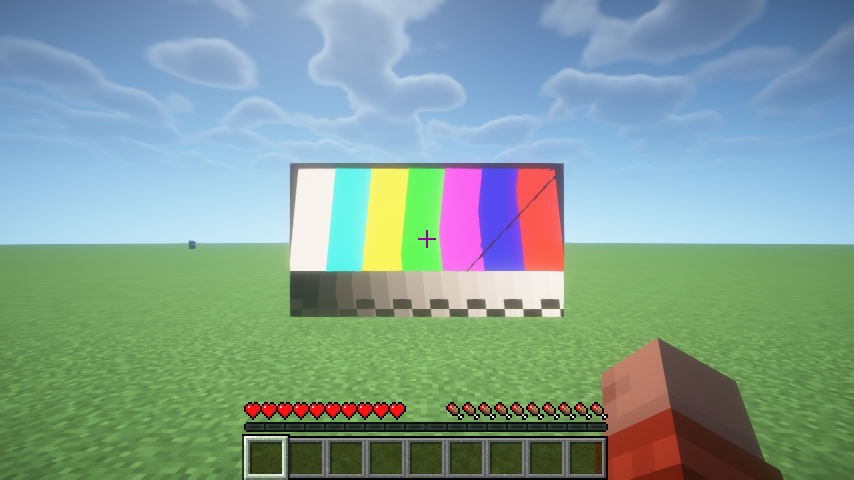
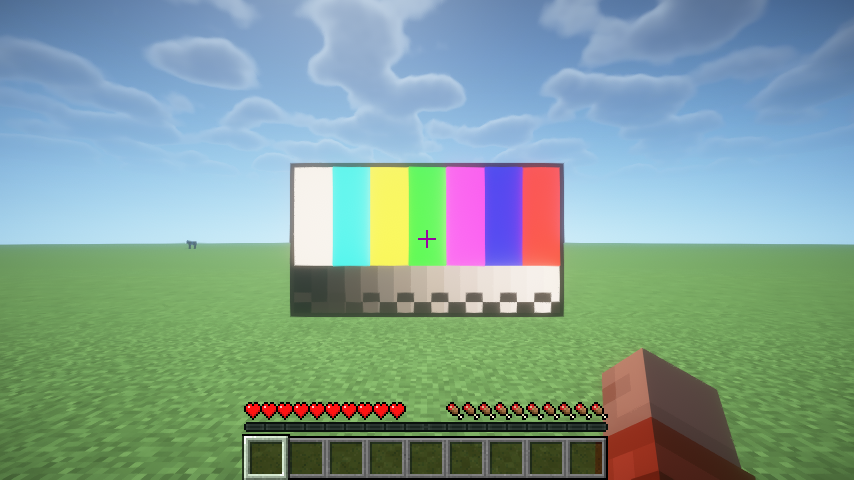
Remove test-pattern scanline and move projector behind viewer

Changed region(s): [[0.3349, 0.3438, 0.6698, 0.6875], [0.7307, 0.6875, 0.9133, 1.0]]

diff --git a/src/client/java/com/example/firstmod/client/render/CinemaVisualSpike.java b/src/client/java/com/example/firstmod/client/render/CinemaVisualSpike.java
@@ -85,6 +85,7 @@ public final class CinemaVisualSpike {
 		Vec3 center = eye.add(forward.scale(6.0));
 		double screenWidth = 4.8;
 		double screenHeight = 2.7;
+		double projectorBack = 4.0;
 
 		origin = center.subtract(rightDir.scale(screenWidth / 2.0)).subtract(0.0, screenHeight / 2.0, 0.0);
 		right = rightDir.scale(screenWidth);
@@ -94,12 +95,12 @@ public final class CinemaVisualSpike {
 		// Projector lens: a little behind/above the player, aimed at the
 		// screen center. The UVs come from a real view/projection matrix, so
 		// an off-axis lens produces a keystoned image instead of a flat quad.
-		lens = eye.add(forward.scale(1.2)).add(0.0, 1.0, 0.0);
+		lens = eye.subtract(forward.scale(projectorBack));
 		projectorView = new Matrix4f().lookAt(
 			new Vector3f((float) lens.x, (float) lens.y, (float) lens.z),
 			new Vector3f((float) center.x, (float) center.y, (float) center.z),
 			new Vector3f(0.0f, 1.0f, 0.0f));
-		float fovY = (float) (2.0 * Math.atan((screenHeight / 2.0) / (6.0 - 1.2)));
+		float fovY = (float) (2.0 * Math.atan((screenHeight / 2.0) / (6.0 + projectorBack)));
 		projectorProjection = new Matrix4f().perspective(fovY, (float) screenWidth / (float) screenHeight,
 			0.05f, 100.0f);
 
@@ -215,13 +216,7 @@ public final class CinemaVisualSpike {
 			int bar = Math.min(6, (x - 4) * 7 / (WIDTH - 8));
 			int[] colors = {0xFFFFFFFF, 0xFFFFFF00, 0xFF00FFFF, 0xFF00FF00,
 				0xFFFF00FF, 0xFFFF0000, 0xFF0000FF};
-			int color = colors[bar];
-			// Moving diagonal marker makes dropped frames / stale textures visible.
-			int marker = (frame * 3) % (WIDTH + HEIGHT);
-			if (Math.abs((x + y) - marker) < 3) {
-				color = 0xFF000000;
-			}
-			return color;
+			return colors[bar];
 		}
 		int step = Math.max(0, Math.min(15, (x - 4) * 16 / (WIDTH - 8)));
 		int gray = step * 17;

diff --git a/spike/P05-DESIGN.md b/spike/P05-DESIGN.md
@@ -62,9 +62,10 @@ view/projection 矩阵计算。可见光束已按决定删除。
 
 关键结果：
 
-- 屏幕纹理、颜色条、灰度梯、运动标记均正确显示。
-- 投影仪偏轴（镜头比屏幕中心高 1 m）时 UV 仍能覆盖屏幕；FOV 按镜头到屏幕
-  的实际距离计算后，UV 约在 0–1 之间。
+- 屏幕纹理、颜色条、灰度梯均正确显示。
+- 投影仪镜头位于**玩家后方 4 格、与眼睛同高**（不是屏幕上方）；FOV 按镜头到
+  屏幕的实际距离（10 格）计算后，UV 约在 0–1 之间。
+- 正式方块可以把镜头装在后墙/天花板，但必须用镜头位移/梯形校正把画面拉回屏幕。
 - 遮挡采样 32×18 = **576 条射线**，单次约 **0.5–1.1 ms**（每 20 次纹理更新一次）。
 - 截图路径为 `run/screenshots/`，自动截图在 `-Dfirstmod.spike.visual=true` 时触发。
 
@@ -216,6 +217,7 @@ C/D 需要投影仪深度图/自定义 shader/光影包适配，和 Sodium/Iris 
 ### 3.3 推荐的第一版投影几何
 
 1. 投影仪方块有镜头位置、朝向、投掷比、变焦、焦距、梯形校正参数。
+   **镜头在观众后方/后墙，而不是屏幕正上方**；测试原型放在玩家后方 4 格、同高。
 2. 屏幕方块组成一个矩形，记录原点、宽高、朝向、宽高比。
 3. 投影仪和屏幕配对后，计算屏幕四角在镜头空间的坐标。
 4. 屏幕每个 block 的 UV 由“镜头射线与屏幕平面交点”决定，而不是简单铺满：

diff --git a/spike/README.md b/spike/README.md
@@ -219,8 +219,8 @@ Sodium/Iris/BSL 只作为测试环境放入 `run/mods`、`run/shaderpacks`，不
 
 ![P0.5 screen](screenshots/p05-screen.png)
 
-- `DynamicTexture` 测试图每 3 帧上传，颜色条/灰度梯/运动标记正确
-- 投影仪 UV 由真实 view/projection 矩阵计算，屏幕覆盖正确
+- `DynamicTexture` 测试图每 3 帧上传，颜色条/灰度梯正确
+- 投影仪 UV 由真实 view/projection 矩阵计算，镜头位于玩家后方 4 格，屏幕覆盖正确
 - 32×18 = 576 条遮挡射线，单次约 **0.5–1.1 ms**
 - 截图由 `Screenshot.grab` 自动保存到 `run/screenshots/`
 - **可见光束已按决定删除**；不再渲染光锥/粒子束，也不再需要自定义 RenderType
